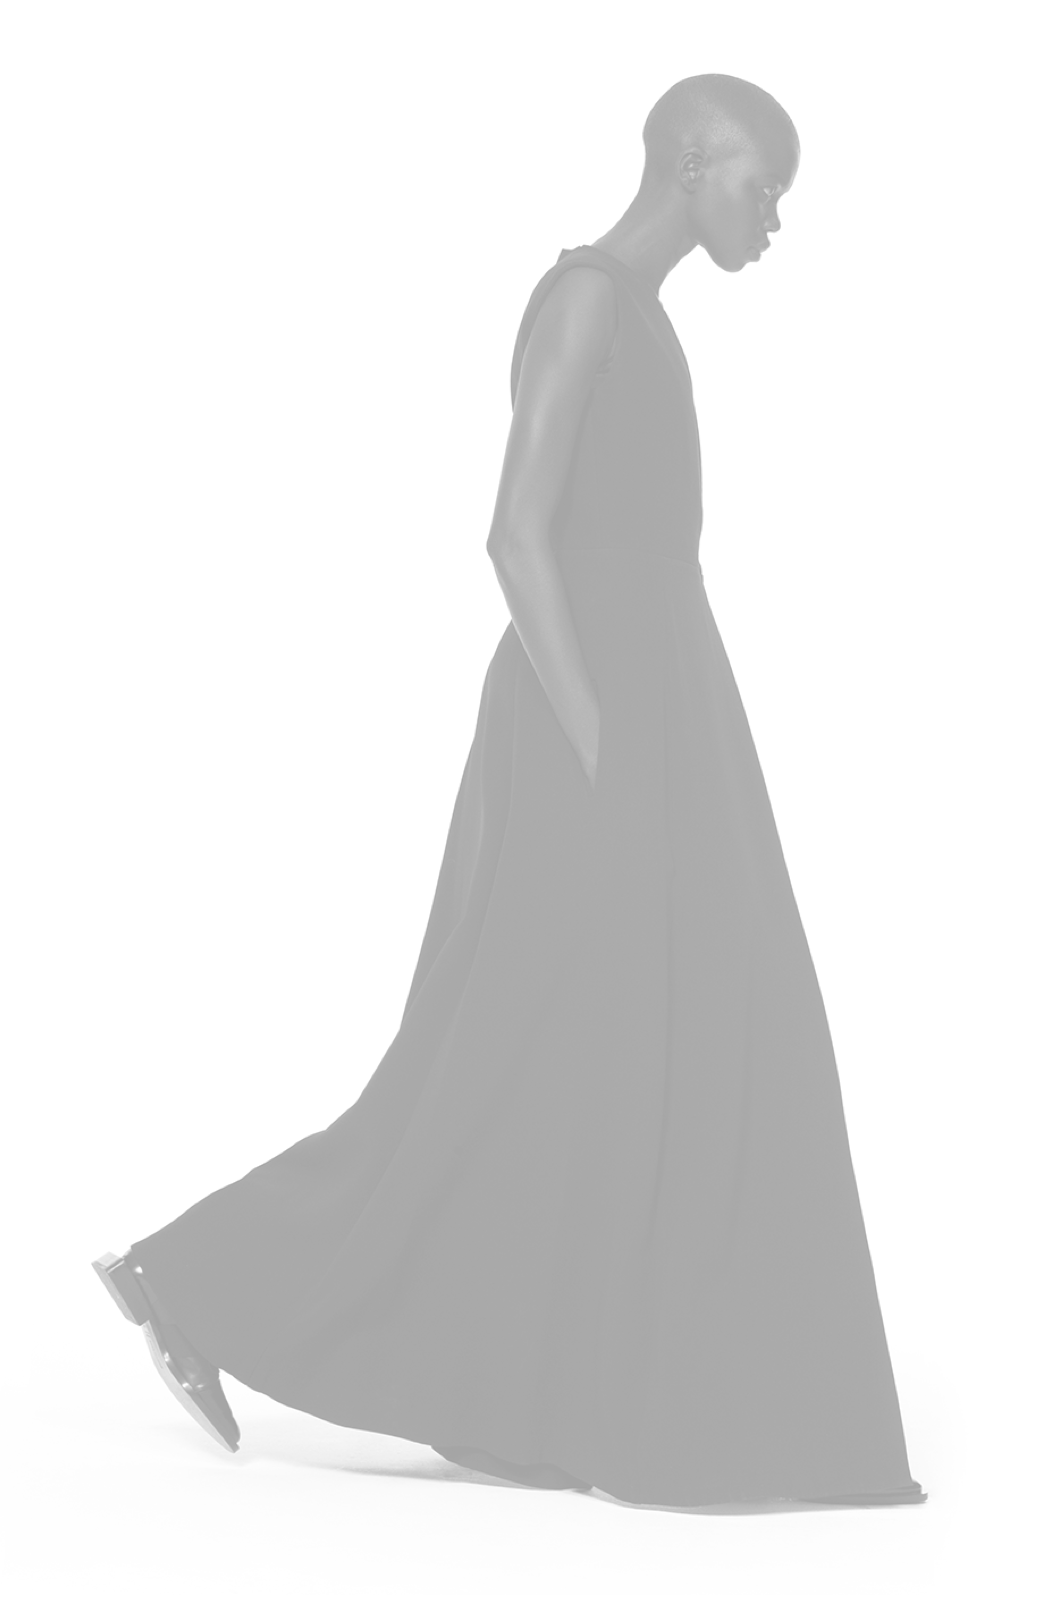
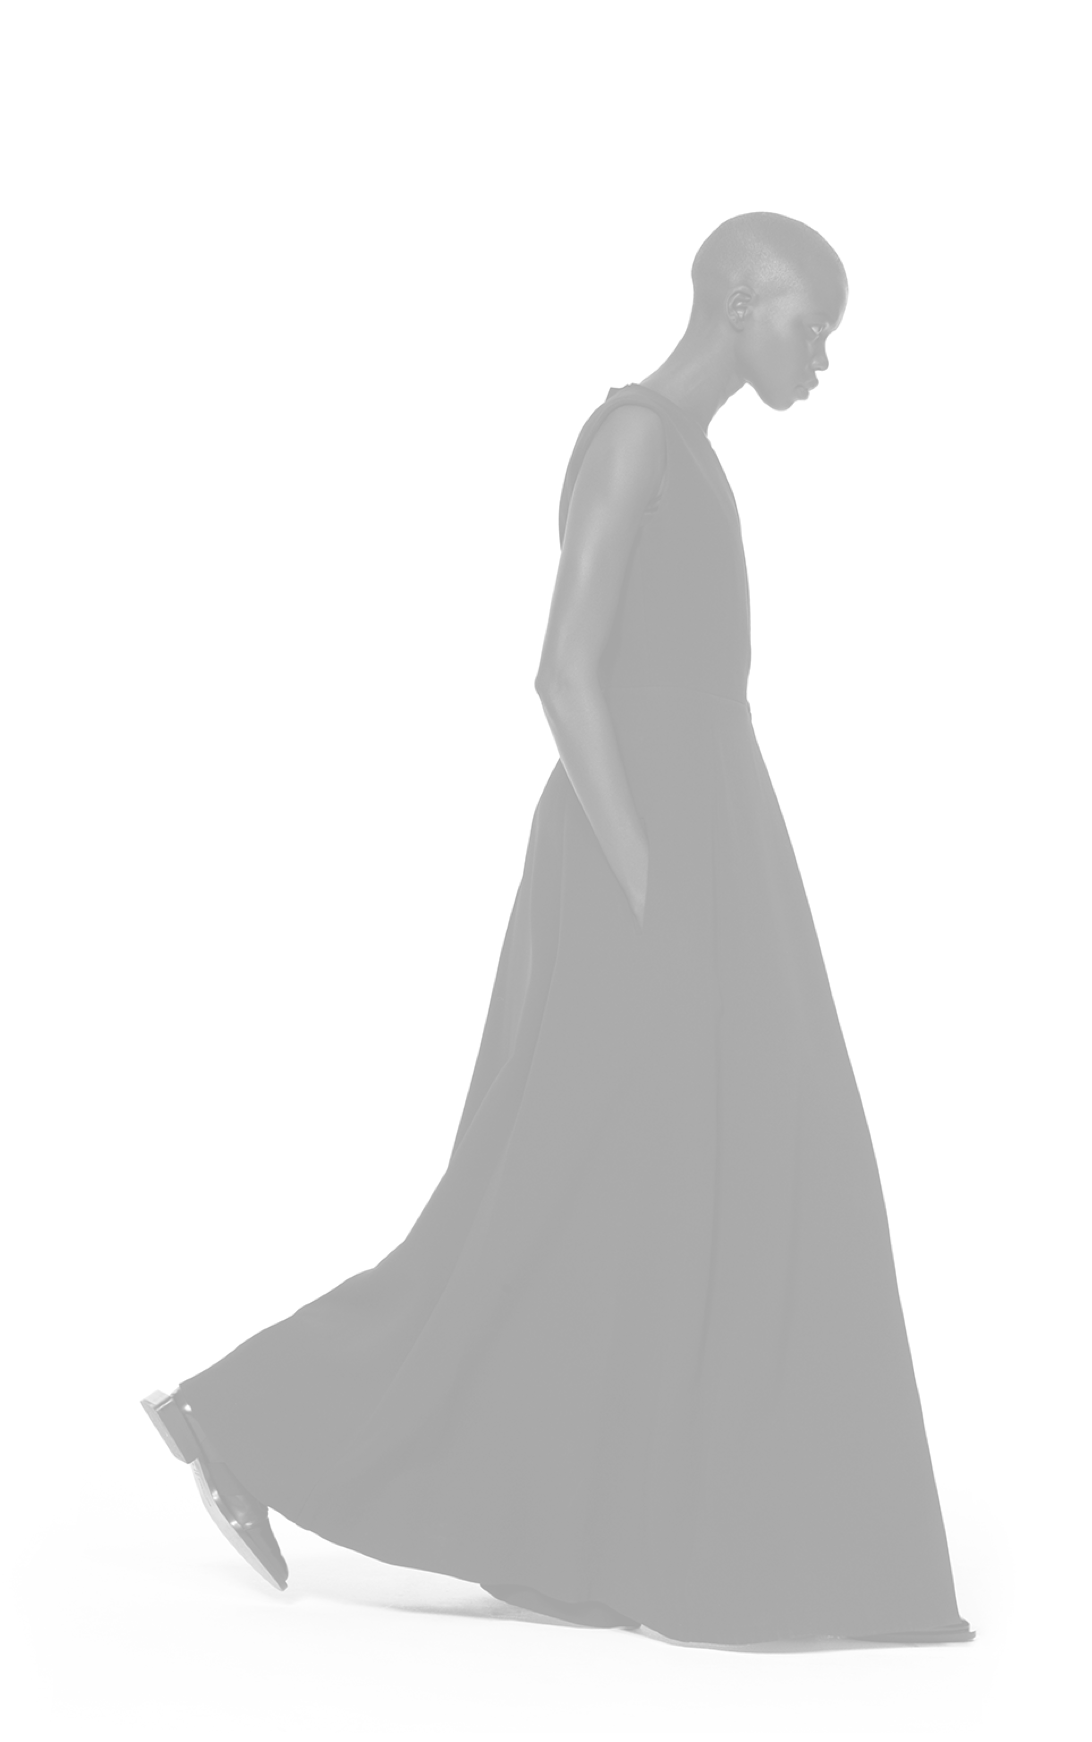
about

diff --git a/styles/about.less b/styles/about.less
@@ -37,7 +37,7 @@
 		}
 		#AboutBg {
 			background-size: cover;
-			background-position: 0 50%;
+			background-position: 50% 0%;
 		}
 	}
 }
